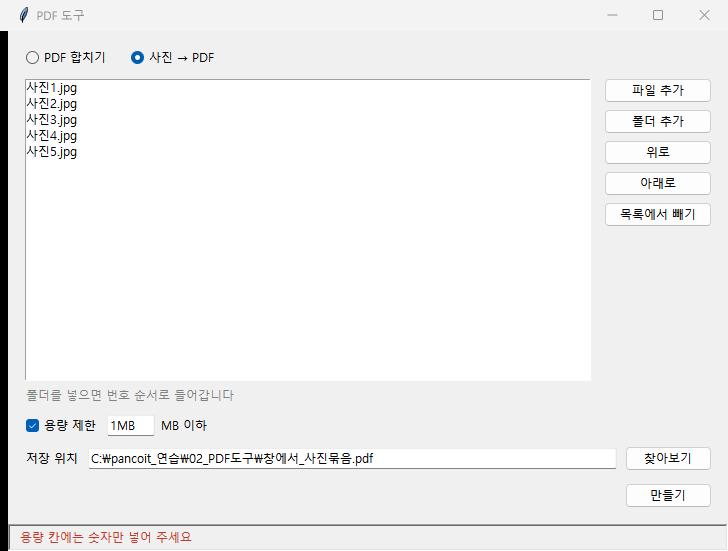
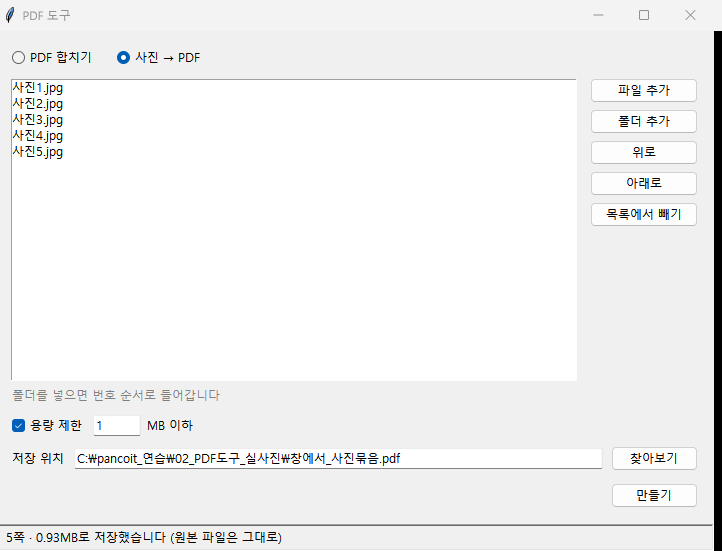
deploy: ALL-MY-PROJECTS-2026/INFO_IT@78a93362fa1e73c0f0667efd194ed27914bec8d7

diff --git a/assets/index-Bz8TyjAO.js b/assets/index-Bz8TyjAO.js
@@ -416,6 +416,8 @@ py -3.12 -m pip --version
 `,s.jsx(e.p,{children:"파일을 넣고 빼고 순서를 바꾸는 버튼이 모두 끝에 이 함수를 부르게 되어 있어서, 한 곳만 고치면 됐습니다. 목록이 비면 만들기 버튼을 끄는 것도 이 함수에서 같이 합니다."}),`
 `,s.jsx(e.p,{children:s.jsx(e.img,{src:"/uploads/pdftool-06-05.png",alt:"고친 뒤 폴더를 넣은 화면. 상태줄에 11개를 넣었다고 나옴"})}),`
 `,s.jsx(e.p,{children:"만들기를 누르니 1초가 안 걸려 상태줄에 '11쪽 · 0.40MB로 저장했습니다 (원본 파일은 그대로)'가 나왔습니다."}),`
+`,s.jsx(e.p,{children:"합친 파일은 스캔 순서 그대로 1쪽부터 11쪽까지 이어집니다. 마지막 쪽이 11쪽입니다."}),`
+`,s.jsx(e.p,{children:s.jsx(e.img,{src:"/uploads/pdftool-06-06.png",alt:"창에서 합친 PDF를 열어 마지막 11쪽을 띄운 화면. 왼쪽에 쪽 목록, 위에 11 / 11"})}),`
 `,s.jsx(e.h2,{id:"사진-묶기와-기다리는-동안의-표시",children:s.jsx(e.a,{href:"#사진-묶기와-기다리는-동안의-표시",children:"사진 묶기와 기다리는 동안의 표시"})}),`
 `,s.jsx(e.p,{children:"사진 → PDF를 고르면 용량 제한 칸이 켜집니다. 2편에서 용량 확인은 사진을 PDF로 묶을 때만 하기로 해서, PDF 합치기에서는 칸이 꺼져 있게 했습니다."}),`
 `,s.jsx(e.p,{children:"사진은 5편에서 쓴 휴대폰 사진 다섯 장(공개 라이선스 CC0)을 그대로 넣었습니다. 1판에서는 1MB로 정해 만들기를 누르면 결과가 나올 때까지 창에 아무 변화가 없었습니다. 눌렸는지 화면으로는 알 수 없었습니다."}),`
@@ -451,13 +453,16 @@ py -3.12 -m pip --version
 `,s.jsxs(e.li,{children:[s.jsx(e.strong,{children:"안내 보여 주기"})," (",s.jsx(e.code,{children:"except"}),"): ",s.jsx(e.code,{children:"pdf_core"}),"가 보낸 안내 문장이나 저장 권한 오류를 받으면 상태줄에 빨간 글자로 보여 주고 멈춥니다. 프로그램이 꺼지지 않습니다."]}),`
 `,s.jsxs(e.li,{children:[s.jsx(e.strong,{children:"커서 되돌리기"})," (",s.jsx(e.code,{children:"finally"}),"): 잘 끝나든 중간에 멈추든 마지막에 커서를 원래대로 돌립니다."]}),`
 `]}),`
-`,s.jsx(e.p,{children:s.jsx(e.img,{src:"/uploads/pdftool-06-06.png",alt:"사진을 묶는 동안 상태줄에 만드는 중입니다가 나온 화면"})}),`
+`,s.jsx(e.p,{children:s.jsx(e.img,{src:"/uploads/pdftool-06-07.png",alt:"사진을 묶는 동안 상태줄에 만드는 중입니다가 나온 화면"})}),`
 `,s.jsx(e.p,{children:"다 끝나자 '5쪽 · 0.93MB로 저장했습니다 (원본 파일은 그대로)'가 나왔습니다. 5편에서 같은 사진을 명령어로 묶은 결과와 같은 0.93MB입니다."}),`
-`,s.jsx(e.p,{children:s.jsx(e.img,{src:"/uploads/pdftool-06-07.png",alt:"사진 5장을 1MB 아래로 묶은 결과"})}),`
+`,s.jsx(e.p,{children:s.jsx(e.img,{src:"/uploads/pdftool-06-08.png",alt:"사진 5장을 1MB 아래로 묶은 결과"})}),`
+`,s.jsx(e.p,{children:"묶인 PDF는 5쪽이고, 세로로 찍은 책 사진도 옆으로 눕지 않고 바로 선 채로 들어갔습니다."}),`
+`,s.jsx(e.p,{children:s.jsx(e.img,{src:"/uploads/pdftool-06-09.png",alt:"창에서 묶은 사진 PDF의 첫 쪽. 세로로 찍은 책 사진이 바로 서 있고 왼쪽에 다섯 쪽 목록"})}),`
+`,s.jsx("p",{className:"muted",children:"사진: Randal Oulton, 위키미디어 공용 CC0"}),`
 `,s.jsx(e.h2,{id:"잘못-넣었을-때의-안내",children:s.jsx(e.a,{href:"#잘못-넣었을-때의-안내",children:"잘못 넣었을 때의 안내"})}),`
 `,s.jsx(e.p,{children:"2편에서 정한 오류 상황 가운데 용량 칸을 잘못 채운 경우와 암호 걸린 PDF를 넣은 경우를 해 봤습니다."}),`
 `,s.jsx(e.p,{children:"용량 칸에 '1MB'처럼 단위까지 적으면 숫자로 바꿀 수 없어서, 만들기를 막고 숫자만 넣으라는 안내를 띄웁니다."}),`
-`,s.jsx(e.p,{children:s.jsx(e.img,{src:"/uploads/pdftool-06-08.png",alt:"용량 칸에 1MB를 넣었을 때 안내"})}),`
+`,s.jsx(e.p,{children:s.jsx(e.img,{src:"/uploads/pdftool-06-10.png",alt:"용량 칸에 1MB를 넣었을 때 안내"})}),`
 `,s.jsx(e.p,{children:"암호 걸린 PDF는 연습용으로 하나 만들어서 시험했습니다. 3편에서 만든 연습2.pdf에 pypdf로 열기 암호를 걸었습니다."}),`
 `,s.jsx(s.Fragment,{children:s.jsx(e.pre,{className:"shiki shiki-themes github-light github-dark",style:{backgroundColor:"#fff","--shiki-dark-bg":"#24292e",color:"#24292e","--shiki-dark":"#e1e4e8"},tabIndex:"0",children:s.jsxs(e.code,{children:[s.jsxs(e.span,{className:"line",children:[s.jsx(e.span,{style:{color:"#D73A49","--shiki-dark":"#F97583"},children:"from"}),s.jsx(e.span,{style:{color:"#24292E","--shiki-dark":"#E1E4E8"},children:" pypdf "}),s.jsx(e.span,{style:{color:"#D73A49","--shiki-dark":"#F97583"},children:"import"}),s.jsx(e.span,{style:{color:"#24292E","--shiki-dark":"#E1E4E8"},children:" PdfReader, PdfWriter"})]}),`
 `,s.jsx(e.span,{className:"line"}),`
@@ -467,7 +472,7 @@ py -3.12 -m pip --version
 `,s.jsxs(e.span,{className:"line",children:[s.jsx(e.span,{style:{color:"#24292E","--shiki-dark":"#E1E4E8"},children:"writer.write("}),s.jsx(e.span,{style:{color:"#032F62","--shiki-dark":"#9ECBFF"},children:'"암호연습.pdf"'}),s.jsx(e.span,{style:{color:"#24292E","--shiki-dark":"#E1E4E8"},children:")"})]}),`
 `,s.jsxs(e.span,{className:"line",children:[s.jsx(e.span,{style:{color:"#005CC5","--shiki-dark":"#79B8FF"},children:"print"}),s.jsx(e.span,{style:{color:"#24292E","--shiki-dark":"#E1E4E8"},children:"("}),s.jsx(e.span,{style:{color:"#032F62","--shiki-dark":"#9ECBFF"},children:'"암호연습.pdf 만들었음"'}),s.jsx(e.span,{style:{color:"#24292E","--shiki-dark":"#E1E4E8"},children:")"})]})]})})}),`
 `,s.jsx(e.p,{children:"연습1, 암호연습, 연습2 순서로 넣고 만들기를 누르니 상태줄에 어느 파일이 문제인지 이름이 나왔고, 결과 파일은 생기지 않았습니다."}),`
-`,s.jsx(e.p,{children:s.jsx(e.img,{src:"/uploads/pdftool-06-09.png",alt:"암호 걸린 파일을 섞었을 때 안내"})}),`
+`,s.jsx(e.p,{children:s.jsx(e.img,{src:"/uploads/pdftool-06-11.png",alt:"암호 걸린 파일을 섞었을 때 안내"})}),`
 `,s.jsx(e.p,{children:"같은 이름의 결과 파일이 이미 있으면 덮어쓸지 묻는 창과 위로·아래로·빼기 버튼은 코드에만 넣어 두었습니다."}),`
 `,s.jsx(e.p,{children:"다음 편에서는 이 창을 더블클릭으로 켜는 방법을 만들고, 2편에서 정한 시험 11가지를 처음부터 해 보겠습니다."}),`
 `,s.jsx(e.p,{children:"제가 쓴 환경은 Windows 11, Python 3.14.9, tkinter 9.0, pypdf 6.21.4, Pillow 13.0.0입니다."})]})}function Pe(r={}){const{wrapper:e}={...f(),...r.components};return e?s.jsx(e,{...r,children:s.jsx(ns,{...r})}):ns(r)}const ve=Object.freeze(Object.defineProperty({__proto__:null,default:Pe,frontmatter:Ae},Symbol.toStringTag,{value:"Module"})),we=Object.assign({"../content/posts/python-pdf-tool-01-requirements.mdx":Ee,"../content/posts/python-pdf-tool-02-design.mdx":me,"../content/posts/python-pdf-tool-03-install-merge.mdx":ge,"../content/posts/python-pdf-tool-04-folder-merge.mdx":Ne,"../content/posts/python-pdf-tool-05-photo-size.mdx":Be,"../content/posts/python-pdf-tool-06-window.mdx":ve}),Y=Object.entries(we).map(([r,e])=>({slug:r.split("/").pop().replace(/\.mdx$/,""),Component:e.default,...e.frontmatter})).sort((r,e)=>{const l=+!!r.draft-+!!e.draft;return l!==0?l:r.date<e.date?1:-1}),Me=new Set(m.categories.filter(r=>r.hidden).map(r=>r.label));function w(r){return!!r&&Me.has(r)}const S=Y.filter(r=>!w(r.category)),Ns=Y.filter(r=>!r.draft),M=Ns.filter(r=>!w(r.category));function Te(r){return Y.find(e=>e.slug===r)}function ds(r){return Ns.filter(e=>e.category===r)}function cs(r){return M.filter(e=>e.category===r).length}const $e=new Set(["생활IT","이유","방법","정리","확인","하는","있는","없는","것","때","수"]);function as(r){const e=`${r.title} ${r.description??""} ${(r.tags??[]).join(" ")}`;return new Set((e.match(/[가-힣A-Za-z0-9]{2,}/g)??[]).map(l=>l.toLowerCase().replace(/(은|는|이|가|을|를|의|에|도|로|으로|과|와|만)$/,"")).filter(l=>l.length>=2&&!$e.has(l)))}const Ie=864e5,Se=(r,e)=>Math.abs(new Date(r.date).getTime()-new Date(e.date).getTime())/Ie;function Re(r,e=6){const l=as(r),i=r.tags??[];return M.filter(n=>n.slug!==r.slug).map(n=>{let c=0;n.category&&n.category===r.category&&(c+=1),c+=(n.tags??[]).filter(d=>i.includes(d)).length*3;for(const d of as(n))l.has(d)&&(c+=2);return{p:n,score:c,gap:Se(n,r)}}).sort((n,c)=>c.score-n.score||n.gap-c.gap).slice(0,e).map(n=>n.p)}function Le(r){const e=M.filter(i=>i.category===r.category),l=e.findIndex(i=>i.slug===r.slug);return l<0?{}:{next:e[l-1],prev:e[l+1]}}function Oe(){const[r,e]=h.useState(null);return h.useEffect(()=>{let l=!0;return fetch("/stats.json",{cache:"no-store"}).then(i=>i.ok?i.json():null).then(i=>{l&&i&&(typeof i.daily=="number"||typeof i.total=="number")&&e({daily:i.daily??null,total:i.total??null})}).catch(()=>{}),()=>{l=!1}},[]),r}const ze=!1;function K(){const{pathname:r}=V(),e=decodeURIComponent(r).replace(/(.)\/$/,"$1"),l=e==="/posts"||e==="/";Oe();const i=m.categories.filter(d=>!w(d.label)&&cs(d.label)>0),n=[];for(const d of i){if(!d.group){n.push({type:"item",cat:d});continue}let a=n.find(p=>p.type==="group"&&p.name===d.group);a||(a={type:"group",name:d.group,items:[]},n.push(a)),a.items.push(d)}const c=d=>{const a=e===`/category/${d.label}`;return s.jsxs(g,{to:`/category/${encodeURIComponent(d.label)}`,className:`cat-nav__item ${a?"active":""}`,title:d.desc,children:[s.jsx("span",{children:d.label}),s.jsx("span",{className:"count",children:cs(d.label)})]},d.label)};return s.jsx("aside",{className:"sidebar",children:s.jsxs("nav",{className:"cat-nav","aria-label":"카테고리",children:[ze,s.jsx("div",{className:"sidebar__title",children:"카테고리"}),s.jsxs(g,{to:"/posts",className:`cat-nav__item ${l?"active":""}`,children:[s.jsx("span",{children:"전체 글"}),s.jsx("span",{className:"count",children:M.length})]}),n.length>0&&s.jsx("div",{className:"cat-divider",role:"separator","aria-hidden":"true"}),n.map(d=>d.type==="item"?c(d.cat):s.jsxs("div",{className:"cat-group",children:[s.jsx("div",{className:"cat-group__title",children:d.name}),d.items.map(c)]},`group-${d.name}`))]})})}function T(r){const e=new Date(r);if(Number.isNaN(e.getTime()))return r;const l=`${e.getFullYear()}년 ${e.getMonth()+1}월 ${e.getDate()}일`;if(!/[T ]\d{2}:\d{2}/.test(r))return l;const i=String(e.getHours()).padStart(2,"0"),n=String(e.getMinutes()).padStart(2,"0");return`${l} ${i}:${n}`}function qe(r){const e=r.replace(/\s/g,"").length;return Math.max(1,Math.round(e/500))}function Z({post:r}){return s.jsxs(g,{to:`/posts/${r.slug}`,className:`post-row ${r.draft?"post-row--draft":""}`,children:[s.jsxs("div",{className:"post-row__meta",children:[r.category&&s.jsx("span",{className:"post-row__cat",children:r.category}),s.jsx("time",{dateTime:r.date,children:T(r.date)}),r.draft&&s.jsx("span",{className:"post-row__badge",children:"작성 예정"})]}),s.jsx("h3",{className:"post-row__title",children:r.title}),s.jsx("p",{className:"post-row__excerpt",children:r.description})]})}function J({slot:r,format:e="auto"}){const l=V();return s.jsx(Ge,{slot:r,format:e},l.pathname+(r??""))}function Ge({slot:r,format:e}){return h.useRef(null),h.useEffect(()=>{},[]),null}function We(){const[r,...e]=M;return s.jsxs(s.Fragment,{children:[s.jsx($,{path:"/"}),s.jsxs("div",{className:"blog",children:[s.jsx(K,{}),s.jsxs("div",{className:"blog__main",children:[s.jsxs("header",{className:"feed-head",children:[s.jsx("p",{className:"feed-head__eyebrow",children:"프로그램 제작 기록"}),s.jsx("h1",{children:m.title}),s.jsx("p",{className:"feed-head__desc",children:m.description})]}),M.length===0?s.jsx("p",{className:"muted",style:{paddingTop:"2rem"},children:"첫 글을 준비하고 있습니다. PDF를 다루는 도구부터 시작합니다."}):s.jsxs(s.Fragment,{children:[r&&s.jsxs(g,{to:`/posts/${r.slug}`,className:"feature",children:[s.jsx("span",{className:"feature__label",children:"추천"}),s.jsx("h2",{className:"feature__title",children:r.title}),s.jsx("p",{className:"feature__excerpt",children:r.description}),s.jsxs("div",{className:"post-row__meta",children:[r.category&&s.jsx("span",{className:"post-row__cat",children:r.category}),s.jsx("time",{dateTime:r.date,children:T(r.date)})]})]}),s.jsxs("div",{className:"feed-bar",children:[s.jsx("h2",{children:"최신 글"}),s.jsx(g,{to:"/posts",className:"feed-bar__all",children:"전체 글 →"})]}),e.length>0&&s.jsx("div",{className:"post-list",children:e.map(l=>s.jsx(Z,{post:l},l.slug))})]}),s.jsx(J,{slot:"home-bottom"})]})]})]})}const Ue="/".replace(/\/$/,"");function _s({post:r}){const e=r.cover&&r.cover.startsWith("/")?Ue+r.cover:r.cover;return s.jsxs(g,{to:`/posts/${r.slug}`,className:`post-tile${r.draft?" post-tile--draft":""}`,children:[s.jsx("div",{className:"post-tile__thumb",children:e?s.jsx("img",{src:e,alt:"",loading:"lazy",decoding:"async"}):s.jsx("span",{className:"post-tile__thumb-empty","aria-hidden":"true",children:r.category??"IT"})}),s.jsxs("div",{className:"post-tile__body",children:[s.jsxs("div",{className:"post-row__meta",children:[r.category&&s.jsx("span",{className:"post-row__cat",children:r.category}),r.draft&&s.jsx("span",{className:"post-row__badge",children:"작성 예정"})]}),s.jsx("h3",{className:"post-tile__title",children:r.title}),s.jsx("p",{className:"post-tile__excerpt",children:r.description}),s.jsx("time",{className:"post-tile__date",dateTime:r.date,children:T(r.date)})]})]})}function bs({mode:r,onChange:e}){return s.jsxs("div",{className:"view-toggle",role:"group","aria-label":"보기 모드",children:[s.jsx("button",{type:"button",className:`view-toggle__btn${r==="list"?" is-active":""}`,onClick:()=>e("list"),"aria-pressed":r==="list","aria-label":"리스트형",title:"리스트형",children:s.jsx("svg",{viewBox:"0 0 24 24","aria-hidden":"true",children:s.jsx("path",{d:"M4 6h16M4 12h16M4 18h16"})})}),s.jsx("button",{type:"button",className:`view-toggle__btn${r==="card"?" is-active":""}`,onClick:()=>e("card"),"aria-pressed":r==="card","aria-label":"카드형",title:"카드형",children:s.jsxs("svg",{viewBox:"0 0 24 24","aria-hidden":"true",children:[s.jsx("rect",{x:"3",y:"3",width:"8",height:"8",rx:"1.5"}),s.jsx("rect",{x:"13",y:"3",width:"8",height:"8",rx:"1.5"}),s.jsx("rect",{x:"3",y:"13",width:"8",height:"8",rx:"1.5"}),s.jsx("rect",{x:"13",y:"13",width:"8",height:"8",rx:"1.5"})]})})]})}const q=5;function Bs({page:r,pageCount:e,onChange:l,align:i="center"}){if(e<=1)return null;const n=o=>{const y=Math.min(Math.max(1,o),e);y!==r&&(l(y),typeof window<"u"&&window.scrollTo({top:0,behavior:"smooth"}))},d=Math.floor((r-1)/q)*q+1,a=Math.min(d+q-1,e),p=[];for(let o=d;o<=a;o++)p.push(o);const x=d>1,t=a<e;return s.jsxs("nav",{className:`pager${i==="right"?" pager--right":""}`,"aria-label":"페이지 이동",children:[x&&s.jsx("button",{type:"button",className:"pager__btn pager__nav",onClick:()=>n(d-1),"aria-label":"이전 페이지 묶음",children:s.jsx("svg",{viewBox:"0 0 24 24","aria-hidden":"true",children:s.jsx("path",{d:"M15 18l-6-6 6-6"})})}),s.jsx("ol",{className:"pager__list",children:p.map(o=>s.jsx("li",{children:s.jsx("button",{type:"button",className:`pager__btn pager__num${o===r?" is-active":""}`,onClick:()=>n(o),"aria-label":`${o}페이지`,"aria-current":o===r?"page":void 0,children:o})},o))}),t&&s.jsx("button",{type:"button",className:"pager__btn pager__nav",onClick:()=>n(a+1),"aria-label":"다음 페이지 묶음",children:s.jsx("svg",{viewBox:"0 0 24 24","aria-hidden":"true",children:s.jsx("path",{d:"M9 18l6-6-6-6"})})})]})}function As({posts:r,title:e="월별 글 목록"}){const l=r.filter(c=>!c.draft);if(l.length===0)return null;const i=new Map;for(const c of l){const d=c.date.slice(0,7);i.has(d)||i.set(d,[]),i.get(d).push(c)}const n=[...i.keys()].sort().reverse();return s.jsxs("section",{className:"post-archive","aria-labelledby":"post-archive-title",children:[s.jsx("h2",{id:"post-archive-title",className:"post-archive__title",children:e}),n.map(c=>{const[d,a]=c.split("-"),p=i.get(c).sort((x,t)=>x.date<t.date?1:-1);return s.jsxs("div",{className:"post-archive__month",children:[s.jsxs("h3",{className:"post-archive__ym",children:[d,"년 ",Number(a),"월 ",s.jsxs("span",{className:"muted",children:["· ",p.length,"편"]})]}),s.jsx("ul",{className:"post-archive__list",children:p.map(x=>s.jsxs("li",{children:[s.jsx("time",{dateTime:x.date,children:x.date.slice(5,10).replace("-",".")}),s.jsx(g,{to:`/posts/${x.slug}`,children:x.title})]},x.slug))})]},c)})]})}const ts="postView";function Ps(){const[r,e]=h.useState("list");return h.useEffect(()=>{try{const i=localStorage.getItem(ts);(i==="card"||i==="list")&&e(i)}catch{}},[]),[r,i=>{e(i);try{localStorage.setItem(ts,i)}catch{}}]}const G=5;function Xe(){const[r,e]=Es(),l=r.get("q")??"",i=r.get("cat")??"",n=r.get("sort")||"new",[c,d]=Ps(),a=(k,C,F,E={})=>{e(u=>{const _=new URLSearchParams(u);return C&&C!==F?_.set(k,C):_.delete(k),_.delete("page"),_},{replace:E.replace??!1})},p=k=>{e(C=>{const F=new URLSearchParams(C);return k>1?F.set("page",String(k)):F.delete("page"),F})},x=h.useMemo(()=>{const k=new Set;return S.forEach(C=>C.category&&k.add(C.category)),[...k]},[]),t=h.useMemo(()=>{const k=l.trim().toLowerCase();return[...S.filter(F=>i&&F.category!==i?!1:k?F.title.toLowerCase().includes(k)||F.description.toLowerCase().includes(k)||(F.tags??[]).some(E=>E.toLowerCase().includes(k))||(F.category??"").toLowerCase().includes(k):!0)].sort((F,E)=>{if(n==="cat"){const u=(F.category??"").localeCompare(E.category??"","ko");return u!==0?u:F.date<E.date?1:-1}return n==="old"?F.date<E.date?-1:F.date>E.date?1:0:F.date<E.date?1:F.date>E.date?-1:0})},[l,i,n]),o=Math.max(1,Math.ceil(t.length/G)),y=parseInt(r.get("page")??"1",10),D=Math.min(Math.max(1,Number.isFinite(y)?y:1),o),P=t.slice((D-1)*G,D*G);return s.jsxs(s.Fragment,{children:[s.jsx($,{title:"전체 글",path:"/posts",description:"PANCO_IT의 모든 글 목록"}),s.jsxs("div",{className:"blog",children:[s.jsx(K,{}),s.jsxs("div",{className:"blog__main",children:[s.jsxs("div",{className:"posts-head-row",children:[s.jsxs("header",{className:"feed-head",children:[s.jsx("p",{className:"feed-head__eyebrow",children:"모든 글을 한곳에"}),s.jsx("h1",{children:"전체 글"}),s.jsxs("p",{className:"feed-head__desc",children:["총 ",S.length,"개의 글이 있습니다."]})]}),s.jsxs("div",{className:"post-filter",children:[s.jsxs("div",{className:"fbox fbox--search",children:[s.jsxs("svg",{className:"fbox__icon",viewBox:"0 0 24 24","aria-hidden":"true",children:[s.jsx("circle",{cx:"11",cy:"11",r:"7"}),s.jsx("path",{d:"M21 21l-4.3-4.3"})]}),s.jsx("input",{type:"search",className:"fbox__input",value:l,onChange:k=>a("q",k.target.value,"",{replace:!0}),placeholder:"검색","aria-label":"글 검색"})]}),s.jsxs("div",{className:"fbox",children:[s.jsx("svg",{className:"fbox__icon",viewBox:"0 0 24 24","aria-hidden":"true",children:s.jsx("path",{d:"M3 5h18l-7 8v6l-4 2v-8z"})}),s.jsxs("select",{className:"fbox__select",value:i,onChange:k=>a("cat",k.target.value,""),"aria-label":"카테고리 필터",children:[s.jsx("option",{value:"",children:"전체 카테고리"}),x.map(k=>s.jsx("option",{value:k,children:k},k))]})]}),s.jsxs("div",{className:"fbox",children:[s.jsx("svg",{className:"fbox__icon",viewBox:"0 0 24 24","aria-hidden":"true",children:s.jsx("path",{d:"M4 6h16M6 12h12M9 18h6"})}),s.jsxs("select",{className:"fbox__select",value:n,onChange:k=>a("sort",k.target.value,"new"),"aria-label":"정렬",children:[s.jsx("option",{value:"new",children:"최신순"}),s.jsx("option",{value:"old",children:"오래된순"}),s.jsx("option",{value:"cat",children:"카테고리순"})]})]}),s.jsx(bs,{mode:c,onChange:d})]})]}),s.jsxs("p",{className:"post-filter__count muted",children:[t.length,"개"]}),t.length===0?s.jsx("p",{className:"muted",children:"조건에 맞는 글이 없습니다."}):s.jsxs(s.Fragment,{children:[s.jsx(Bs,{page:D,pageCount:o,onChange:p,align:"right"}),c==="card"?s.jsx("div",{className:"post-grid",children:P.map(k=>s.jsx(_s,{post:k},k.slug))}):s.jsx("div",{className:"post-list",children:P.map(k=>s.jsx(Z,{post:k},k.slug))})]}),s.jsx(As,{posts:M})]})]})]})}function vs({items:r}){return r.length<2?null:s.jsx("nav",{className:"breadcrumbs","aria-label":"현재 위치",children:s.jsx("ol",{children:r.map((e,l)=>{const i=l===r.length-1;return s.jsx("li",{children:i?s.jsx("span",{"aria-current":"page",children:e.name}):s.jsx(g,{to:e.path,children:e.name})},e.path+l)})})})}function He(){const[r,e]=h.useState(0);return h.useEffect(()=>{let l=0;const i=()=>{const c=document.documentElement,d=c.scrollHeight-c.clientHeight,a=d>0?c.scrollTop/d*100:0;e(a),l=0},n=()=>{l||(l=requestAnimationFrame(i))};return window.addEventListener("scroll",n,{passive:!0}),i(),()=>{window.removeEventListener("scroll",n),l&&cancelAnimationFrame(l)}},[]),s.jsx("div",{className:"reading-progress",style:{width:`${r}%`},"aria-hidden":"true"})}const Je=80;function Ve({containerId:r}){const[e,l]=h.useState([]),[i,n]=h.useState("");h.useEffect(()=>{const d=document.getElementById(r);if(!d)return;const a=Array.from(d.querySelectorAll("h2, h3")),p=a.filter(t=>t.id).map(t=>({id:t.id,text:t.textContent??"",level:Number(t.tagName.substring(1))}));l(p);const x=new IntersectionObserver(t=>{for(const o of t)o.isIntersecting&&n(o.target.id)},{rootMargin:"-80px 0px -70% 0px",threshold:0});return a.forEach(t=>t.id&&x.observe(t)),()=>x.disconnect()},[r]);const c=(d,a)=>{const p=document.getElementById(a);if(!p)return;d.preventDefault();const x=window.matchMedia("(prefers-reduced-motion: reduce)").matches,t=p.getBoundingClientRect().top+window.scrollY-Je;window.scrollTo({top:t,left:0,behavior:x?"auto":"smooth"}),history.replaceState(null,"",`${location.pathname}${location.search}#${encodeURIComponent(a)}`),n(a)};return e.length<2?null:s.jsxs("nav",{className:"toc","aria-label":"목차",children:[s.jsx("div",{className:"toc__title",children:"목차"}),e.map(d=>s.jsx("a",{href:`#${d.id}`,onClick:a=>c(a,d.id),className:`${d.level===3?"lvl-3":""} ${i===d.id?"active":""}`,children:d.text},d.id))]})}function Ye({post:r,featured:e=!1}){return s.jsxs(g,{to:`/posts/${r.slug}`,className:`post-card ${e?"post-card--featured":""}`,children:[r.category&&s.jsx("span",{className:"tag",style:{alignSelf:"flex-start"},children:r.category}),s.jsx("h3",{style:{marginTop:r.category?"0.75rem":0},children:r.title}),s.jsx("p",{children:r.description}),s.jsxs("div",{className:"post-card__meta",children:[s.jsx("time",{dateTime:r.date,children:T(r.date)}),r.tags&&r.tags.length>0&&s.jsxs("span",{children:["· ",r.tags.slice(0,3).join(", ")]})]})]})}function Ke({questions:r}){const[e,l]=h.useState(!1),[i,n]=h.useState(0),[c,d]=h.useState(0),[a,p]=h.useState(null),[x,t]=h.useState(!1);if(!r||r.length===0)return null;const o=r.length;if(!e){const E=r.filter(j=>j.type==="ox").length,u=o-E,_=[E?`OX ${E}문제`:"",u?`4지선다 ${u}문제`:""].filter(Boolean);return s.jsx("div",{className:"quiz",children:s.jsxs("div",{className:"quiz__start",children:[s.jsxs("p",{className:"quiz__h",children:["문제 ",o,"개"]}),s.jsx("p",{className:"quiz__meta",children:_.join(" + ")}),s.jsx("button",{className:"quiz__btn",onClick:()=>l(!0),children:"시작하기"})]})})}if(x){const E=c===o?"완벽합니다. 핵심을 정확히 잡으셨습니다.":c>=Math.ceil(o/2)?"좋습니다. 틀린 부분만 다시 보면 됩니다.":"괜찮습니다. 위 내용을 한 번 더 읽고 다시 도전해 보십시오.";return s.jsx("div",{className:"quiz",children:s.jsxs("div",{className:"quiz__result",children:[s.jsxs("h3",{className:"quiz__h",children:[o,"문제 중 ",s.jsxs("span",{className:"quiz__score",children:[c,"개"]})," 정답"]}),s.jsx("p",{className:"quiz__meta",children:E}),s.jsx("button",{className:"quiz__btn",onClick:()=>{l(!1),n(0),d(0),p(null),t(!1)},children:"다시 풀기"})]})})}const y=r[i],D=a!==null;function P(E){D||(p(E),E===y.answer&&d(u=>u+1))}function k(){i<o-1?(n(i+1),p(null)):t(!0)}const C=a===y.answer,F=[["O",!0],["X",!1]];return s.jsxs("div",{className:"quiz",children:[s.jsxs("div",{className:"quiz__nav",children:[s.jsxs("span",{className:"quiz__count",children:[i+1," / ",o]}),s.jsx("span",{className:"quiz__kind",children:y.type==="ox"?"OX":"4지선다"})]}),s.jsx("p",{className:"quiz__q",children:y.q}),y.code&&s.jsx("pre",{className:"quiz__code",children:s.jsx("code",{children:y.code})}),y.type==="ox"?s.jsx("div",{className:"quiz__ox",children:F.map(([E,u])=>{const _=D?u===y.answer?"is-correct":a===u?"is-wrong":"":"";return s.jsx("button",{className:`quiz__opt quiz__opt--ox ${_}`,disabled:D,onClick:()=>P(u),children:E},E)})}):s.jsx("div",{className:"quiz__opts",children:(y.options??[]).map((E,u)=>{const _=D?u===y.answer?"is-correct":a===u?"is-wrong":"":"";return s.jsxs("button",{className:`quiz__opt ${_}`,disabled:D,onClick:()=>P(u),children:[u+1,". ",E]},u)})}),D&&s.jsxs("div",{className:"quiz__explain",children:[s.jsx("strong",{className:C?"ok":"no",children:C?"정답":"오답"})," ",y.explain]}),D&&s.jsx("button",{className:"quiz__btn",onClick:k,children:i<o-1?"다음":"결과 보기"})]})}const Ze="https://onecompiler.com/embed/java?theme=dark&hideNew=true&hideNewFileOption=true&hideStdin=true&hideLanguageSelection=true&hideTitle=true&listenToEvents=true";function Qe(){return s.jsx("svg",{width:"14",height:"14",viewBox:"0 0 24 24",fill:"none",stroke:"currentColor",strokeWidth:"2",strokeLinecap:"round",strokeLinejoin:"round","aria-hidden":"true",children:s.jsx("path",{d:"M8 3H5a2 2 0 0 0-2 2v3M16 3h3a2 2 0 0 1 2 2v3M8 21H5a2 2 0 0 1-2-2v-3M16 21h3a2 2 0 0 0 2-2v-3"})})}function sr({code:r,label:e}){const[l,i]=h.useState(!1),[n,c]=h.useState(!1),d=h.useRef(null);function a(){var t;const x=(t=d.current)==null?void 0:t.contentWindow;x&&x.postMessage({eventType:"populateCode",language:"java",files:[{name:"Main.java",content:r}]},"*")}h.useEffect(()=>{if(!l)return;const x=[200,700,1500,2500].map(t=>window.setTimeout(a,t));return()=>x.forEach(clearTimeout)},[l]),h.useEffect(()=>{if(typeof document>"u"||(document.body.style.overflow=n?"hidden":"",!n))return;const x=t=>{t.key==="Escape"&&c(!1)};return window.addEventListener("keydown",x),()=>{document.body.style.overflow="",window.removeEventListener("keydown",x)}},[n]);function p(){i(!0),c(!0)}return s.jsxs(s.Fragment,{children:[n&&s.jsx("div",{className:"runner__backdrop",onClick:()=>c(!1)}),s.jsxs("div",{className:`runner${n?" runner--expanded":""}`,children:[s.jsxs("div",{className:"runner__bar",children:[s.jsx("span",{className:"runner__label",children:e??"코드 실행"}),n&&s.jsxs("span",{className:"runner__actions",children:[s.jsx("button",{className:"runner__act",onClick:a,type:"button",children:"코드 다시 넣기"}),s.jsx("button",{className:"runner__act",onClick:()=>c(!1),type:"button",children:"✕ 닫기"})]})]}),s.jsx("pre",{className:"runner__code",children:s.jsx("code",{children:r})}),s.jsx("button",{className:"runner__run",onClick:p,type:"button",children:l?s.jsxs(s.Fragment,{children:[s.jsx(Qe,{})," 실행창 다시 열기"]}):"▶ 컴파일러에서 직접 풀어 보기"}),l&&s.jsx("iframe",{ref:d,className:"runner__frame",src:Ze,title:"자바 온라인 실행창",onLoad:a,loading:"lazy"}),s.jsxs("p",{className:"runner__note",children:["📱 코드 실행(실습)은 ",s.jsx("b",{children:"태블릿·PC"}),"에서 이용할 수 있어요. 모바일에서는 위 코드를 눈으로 따라가며 확인하세요."]})]})]})}const er=r=>`https://onecompiler.com/embed/python?theme=dark&hideNew=true&hideNewFileOption=true&hideStdin=${r?"false":"true"}&hideLanguageSelection=true&hideTitle=true&listenToEvents=true`;function rr(){return s.jsx("svg",{width:"14",height:"14",viewBox:"0 0 24 24",fill:"none",stroke:"currentColor",strokeWidth:"2",strokeLinecap:"round",strokeLinejoin:"round","aria-hidden":"true",children:s.jsx("path",{d:"M8 3H5a2 2 0 0 0-2 2v3M16 3h3a2 2 0 0 1 2 2v3M8 21H5a2 2 0 0 1-2-2v-3M16 21h3a2 2 0 0 0 2-2v-3"})})}function lr({code:r,label:e,stdin:l}){const[i,n]=h.useState(!1),[c,d]=h.useState(!1),a=h.useRef(null);function p(){var o;const t=(o=a.current)==null?void 0:o.contentWindow;t&&t.postMessage({eventType:"populateCode",language:"python",files:[{name:"main.py",content:r}],...l!==void 0?{stdin:l}:{}},"*")}h.useEffect(()=>{if(!i)return;const t=[200,700,1500,2500].map(o=>window.setTimeout(p,o));return()=>t.forEach(clearTimeout)},[i]),h.useEffect(()=>{if(typeof document>"u"||(document.body.style.overflow=c?"hidden":"",!c))return;const t=o=>{o.key==="Escape"&&d(!1)};return window.addEventListener("keydown",t),()=>{document.body.style.overflow="",window.removeEventListener("keydown",t)}},[c]);function x(){n(!0),d(!0)}return s.jsxs(s.Fragment,{children:[c&&s.jsx("div",{className:"runner__backdrop",onClick:()=>d(!1)}),s.jsxs("div",{className:`runner${c?" runner--expanded":""}`,children:[s.jsxs("div",{className:"runner__bar",children:[s.jsx("span",{className:"runner__label",children:e??"코드 실행"}),c&&s.jsxs("span",{className:"runner__actions",children:[s.jsx("button",{className:"runner__act",onClick:p,type:"button",children:"코드 다시 넣기"}),s.jsx("button",{className:"runner__act",onClick:()=>d(!1),type:"button",children:"✕ 닫기"})]})]}),s.jsx("pre",{className:"runner__code",children:s.jsx("code",{children:r})}),l!==void 0&&s.jsxs("p",{className:"runner__note",children:["이 예제는 키보드 입력을 씁니다. 실행창 아래 ",s.jsx("b",{children:"STDIN"})," 칸에 미리 넣어 둔 값(",s.jsx("code",{children:l.replace(/\n/g," ⏎ ")}),")을 바꿔 가며 실행해 보세요."]}),s.jsx("button",{className:"runner__run",onClick:x,type:"button",children:i?s.jsxs(s.Fragment,{children:[s.jsx(rr,{})," 실행창 다시 열기"]}):"▶ 컴파일러에서 직접 풀어 보기"}),i&&s.jsx("iframe",{ref:a,className:"runner__frame",src:er(l!==void 0),title:"파이썬 온라인 실행창",onLoad:p,loading:"lazy"}),s.jsxs("p",{className:"runner__note",children:["📱 코드 실행(실습)은 ",s.jsx("b",{children:"태블릿·PC"}),"에서 이용할 수 있어요. 모바일에서는 위 코드를 눈으로 따라가며 확인하세요."]})]})]})}const ir="/".replace(/\/$/,"");function ws(r){return r&&r.startsWith("/")&&!r.startsWith("//")?ir+r:r}function nr({src:r,style:e,...l}){const i=ws(r);if(r&&/img\.shields\.io/.test(r))return s.jsx("img",{...l,src:i,loading:"lazy",style:{display:"inline-block",verticalAlign:"middle",height:28,width:"auto",margin:"3px 5px 3px 0",...e}});const n=!!r&&/-hero\./.test(r);return s.jsx("img",{...l,src:i,style:e,loading:n?"eager":"lazy",...n?{fetchPriority:"high"}:{}})}function dr({href:r,children:e,...l}){const i=ws(r),n=!!i&&/^https?:/i.test(i);return s.jsx("a",{...l,href:i,...n?{target:"_blank",rel:"noopener noreferrer"}:{},children:e})}const Ms={img:nr,a:dr,Quiz:Ke,JavaRunner:sr,PythonRunner:lr};function Ts(){return s.jsxs("div",{className:"notfound",children:[s.jsx($,{title:"페이지를 찾을 수 없음",path:"/404",noindex:!0}),s.jsx("h1",{children:"404"}),s.jsx("p",{className:"muted",style:{marginTop:"0.5rem"},children:"요청하신 페이지를 찾을 수 없습니다."}),s.jsxs("div",{style:{marginTop:"2rem",display:"flex",gap:"0.75rem",justifyContent:"center"},children:[s.jsx(g,{to:"/",className:"btn",children:"홈으로"}),s.jsx(g,{to:"/posts",className:"btn btn--ghost",children:"전체 글"})]})]})}const os="article-body";function cr(){const{slug:r}=ys(),e=r?Te(r):void 0,l=h.useRef(null),[i,n]=h.useState(null);if(h.useEffect(()=>{l.current&&n(qe(l.current.textContent??""))},[r]),!e)return s.jsx(Ts,{});const c=Re(e),{prev:d,next:a}=w(e.category)?{}:Le(e),{Component:p}=e,x=[{name:"홈",path:"/"},...e.category?[{name:e.category,path:`/category/${encodeURIComponent(e.category)}`}]:[],{name:e.title,path:`/posts/${e.slug}`}];return s.jsxs(s.Fragment,{children:[s.jsx($,{title:e.title,description:e.description,path:`/posts/${e.slug}`,type:"article",article:!0,publishedTime:e.date,modifiedTime:e.updated??e.date,tags:e.tags,image:e.cover,noindex:e.draft||w(e.category),breadcrumbs:x}),s.jsx(He,{}),s.jsxs("div",{className:"post-layout",children:[s.jsxs("article",{children:[!1,s.jsx(vs,{items:x}),s.jsxs("header",{className:"post-header",children:[e.category&&s.jsx(g,{to:`/category/${encodeURIComponent(e.category)}`,className:"tag",children:e.category}),s.jsx("h1",{style:{marginTop:"0.75rem"},children:e.title}),s.jsxs("div",{className:"post-header__meta",children:[s.jsx("span",{children:m.author.name}),s.jsx("time",{dateTime:e.date,children:T(e.date)}),e.updated&&e.updated.slice(0,10)!==e.date.slice(0,10)&&s.jsxs("span",{children:["· 업데이트 ",s.jsx("time",{dateTime:e.updated,children:T(e.updated)})]}),i&&s.jsxs("span",{children:["· 약 ",i,"분 읽기"]})]}),e.tags&&e.tags.length>0&&s.jsx("div",{className:"tag-row",style:{marginTop:"1rem"},children:e.tags.map(t=>s.jsxs("span",{className:"tag",children:["#",t]},t))})]}),s.jsx(J,{slot:"post-top"}),s.jsx("div",{id:os,ref:l,className:"prose",style:{marginTop:"2rem"},children:s.jsx(Ds,{components:Ms,children:s.jsx(p,{})})}),s.jsxs("div",{style:{marginTop:"3rem",padding:"1.4rem",borderRadius:"var(--radius)",border:"1px solid var(--border)",background:"var(--surface)"},children:[s.jsx("strong",{children:m.author.name}),s.jsx("p",{className:"muted",style:{marginTop:"0.35rem"},children:m.author.bio})]}),(d||a)&&s.jsxs("nav",{className:"post-nav","aria-label":"이전 글 다음 글",children:[d?s.jsxs(g,{to:`/posts/${d.slug}`,className:"post-nav__item",children:[s.jsx("span",{className:"post-nav__label",children:"이전 글"}),s.jsx("span",{className:"post-nav__title",children:d.title})]}):s.jsx("span",{}),a?s.jsxs(g,{to:`/posts/${a.slug}`,className:"post-nav__item post-nav__item--next",children:[s.jsx("span",{className:"post-nav__label",children:"다음 글"}),s.jsx("span",{className:"post-nav__title",children:a.title})]}):s.jsx("span",{})]}),s.jsx(J,{slot:"post-bottom"})]}),s.jsx(Ve,{containerId:os},e.slug)]}),c.length>0&&s.jsxs("section",{children:[s.jsx("div",{className:"section-title",children:s.jsx("h2",{children:"관련 글"})}),s.jsx("div",{className:"bento",children:c.map(t=>s.jsx(Ye,{post:t},t.slug))})]})]})}const W=5;function ar(){const{name:r}=ys(),e=r?decodeURIComponent(r):"",l=m.categories.find(j=>j.label===e),[i,n]=Es(),c=zs(),d=i.get("q")??"",a=i.get("sort")||"new",[p,x]=Ps(),t=h.useMemo(()=>{const j=new Set;return S.forEach(B=>B.category&&j.add(B.category)),[...j]},[]),o=ds(e),y=h.useMemo(()=>{const j=d.trim().toLowerCase();return[...o.filter(N=>j?N.title.toLowerCase().includes(j)||N.description.toLowerCase().includes(j)||(N.tags??[]).some(A=>A.toLowerCase().includes(j)):!0)].sort((N,A)=>a==="old"?N.date<A.date?-1:N.date>A.date?1:0:N.date<A.date?1:N.date>A.date?-1:0)},[o,d,a]),D=(j,B,N,A={})=>{n(Is=>{const I=new URLSearchParams(Is);return B&&B!==N?I.set(j,B):I.delete(j),I.delete("page"),I},{replace:A.replace??!1})},P=j=>{n(B=>{const N=new URLSearchParams(B);return j>1?N.set("page",String(j)):N.delete("page"),N})},k=j=>{c(j?`/category/${encodeURIComponent(j)}/`:"/posts/")},C=Math.max(1,Math.ceil(y.length/W)),F=parseInt(i.get("page")??"1",10),E=Math.min(Math.max(1,Number.isFinite(F)?F:1),C),u=y.slice((E-1)*W,E*W),_=[{name:"홈",path:"/"},{name:e,path:`/category/${encodeURIComponent(e)}`}];return s.jsxs(s.Fragment,{children:[s.jsx($,{title:`${e} 카테고리`,path:`/category/${encodeURIComponent(e)}`,breadcrumbs:_,noindex:w(e)}),s.jsxs("div",{className:"blog",children:[s.jsx(K,{}),s.jsxs("div",{className:"blog__main",children:[s.jsx(vs,{items:_}),s.jsxs("div",{className:"posts-head-row",children:[s.jsxs("header",{className:"feed-head",children:[s.jsx("p",{className:"feed-head__eyebrow",children:"카테고리"}),s.jsx("h1",{children:e}),s.jsx("p",{className:"feed-head__desc",children:l?l.desc:`${o.length}개의 글`})]}),o.length>0&&s.jsxs("div",{className:"post-filter",children:[s.jsxs("div",{className:"fbox fbox--search",children:[s.jsxs("svg",{className:"fbox__icon",viewBox:"0 0 24 24","aria-hidden":"true",children:[s.jsx("circle",{cx:"11",cy:"11",r:"7"}),s.jsx("path",{d:"M21 21l-4.3-4.3"})]}),s.jsx("input",{type:"search",className:"fbox__input",value:d,onChange:j=>D("q",j.target.value,"",{replace:!0}),placeholder:"검색","aria-label":"글 검색"})]}),s.jsxs("div",{className:"fbox",children:[s.jsx("svg",{className:"fbox__icon",viewBox:"0 0 24 24","aria-hidden":"true",children:s.jsx("path",{d:"M3 5h18l-7 8v6l-4 2v-8z"})}),s.jsxs("select",{className:"fbox__select",value:e,onChange:j=>k(j.target.value),"aria-label":"카테고리 필터",children:[s.jsx("option",{value:"",children:"전체 카테고리"}),t.map(j=>s.jsx("option",{value:j,children:j},j))]})]}),s.jsxs("div",{className:"fbox",children:[s.jsx("svg",{className:"fbox__icon",viewBox:"0 0 24 24","aria-hidden":"true",children:s.jsx("path",{d:"M4 6h16M6 12h12M9 18h6"})}),s.jsxs("select",{className:"fbox__select",value:a,onChange:j=>D("sort",j.target.value,"new"),"aria-label":"정렬",children:[s.jsx("option",{value:"new",children:"최신순"}),s.jsx("option",{value:"old",children:"오래된순"})]})]}),s.jsx(bs,{mode:p,onChange:x})]})]}),o.length===0?s.jsxs("p",{className:"muted",style:{paddingTop:"1.5rem"},children:["이 카테고리에는 아직 글이 없습니다. ",s.jsx(g,{to:"/posts",children:"전체 글 보기"})]}):y.length===0?s.jsx("p",{className:"muted",children:"조건에 맞는 글이 없습니다."}):s.jsxs(s.Fragment,{children:[s.jsx(Bs,{page:E,pageCount:C,onChange:P,align:"right"}),p==="card"?s.jsx("div",{className:"post-grid",children:u.map(j=>s.jsx(_s,{post:j},j.slug))}):s.jsx("div",{className:"post-list",children:u.map(j=>s.jsx(Z,{post:j},j.slug))})]}),!w(e)&&s.jsx(As,{posts:ds(e),title:`${e} 월별 글 목록`})]})]})]})}const tr={title:"소개",description:"필요한 프로그램을 직접 만들고, 만드는 과정을 순서대로 적는 블로그입니다."};function hs(r){const e={a:"a",h1:"h1",h2:"h2",p:"p",...f(),...r.components};return s.jsxs(s.Fragment,{children:[s.jsx(e.h1,{id:"소개",children:s.jsx(e.a,{href:"#소개",children:"소개"})}),`

diff --git a/posts/python-pdf-tool-06-window/index.html b/posts/python-pdf-tool-06-window/index.html
@@ -60,7 +60,7 @@
         }
       })();
     </script>
-    <script type="module" crossorigin src="/assets/index-BFxGfD6A.js"></script>
+    <script type="module" crossorigin src="/assets/index-Bz8TyjAO.js"></script>
     <link rel="modulepreload" crossorigin href="/assets/react-BCrAd34n.js">
     <link rel="stylesheet" crossorigin href="/assets/index-0DGBLkgr.css">
   </head>
@@ -150,6 +150,8 @@
 <p>파일을 넣고 빼고 순서를 바꾸는 버튼이 모두 끝에 이 함수를 부르게 되어 있어서, 한 곳만 고치면 됐습니다. 목록이 비면 만들기 버튼을 끄는 것도 이 함수에서 같이 합니다.</p>
 <p><img alt="고친 뒤 폴더를 넣은 화면. 상태줄에 11개를 넣었다고 나옴" src="/uploads/pdftool-06-05.png" loading="lazy"/></p>
 <p>만들기를 누르니 1초가 안 걸려 상태줄에 &#x27;11쪽 · 0.40MB로 저장했습니다 (원본 파일은 그대로)&#x27;가 나왔습니다.</p>
+<p>합친 파일은 스캔 순서 그대로 1쪽부터 11쪽까지 이어집니다. 마지막 쪽이 11쪽입니다.</p>
+<p><img alt="창에서 합친 PDF를 열어 마지막 11쪽을 띄운 화면. 왼쪽에 쪽 목록, 위에 11 / 11" src="/uploads/pdftool-06-06.png" loading="lazy"/></p>
 <h2 id="사진-묶기와-기다리는-동안의-표시"><a href="#사진-묶기와-기다리는-동안의-표시">사진 묶기와 기다리는 동안의 표시</a></h2>
 <p>사진 → PDF를 고르면 용량 제한 칸이 켜집니다. 2편에서 용량 확인은 사진을 PDF로 묶을 때만 하기로 해서, PDF 합치기에서는 칸이 꺼져 있게 했습니다.</p>
 <p>사진은 5편에서 쓴 휴대폰 사진 다섯 장(공개 라이선스 CC0)을 그대로 넣었습니다. 1판에서는 1MB로 정해 만들기를 누르면 결과가 나올 때까지 창에 아무 변화가 없었습니다. 눌렸는지 화면으로는 알 수 없었습니다.</p>
@@ -185,13 +187,16 @@
 <li><strong>안내 보여 주기</strong> (<code>except</code>): <code>pdf_core</code>가 보낸 안내 문장이나 저장 권한 오류를 받으면 상태줄에 빨간 글자로 보여 주고 멈춥니다. 프로그램이 꺼지지 않습니다.</li>
 <li><strong>커서 되돌리기</strong> (<code>finally</code>): 잘 끝나든 중간에 멈추든 마지막에 커서를 원래대로 돌립니다.</li>
 </ul>
-<p><img alt="사진을 묶는 동안 상태줄에 만드는 중입니다가 나온 화면" src="/uploads/pdftool-06-06.png" loading="lazy"/></p>
+<p><img alt="사진을 묶는 동안 상태줄에 만드는 중입니다가 나온 화면" src="/uploads/pdftool-06-07.png" loading="lazy"/></p>
 <p>다 끝나자 &#x27;5쪽 · 0.93MB로 저장했습니다 (원본 파일은 그대로)&#x27;가 나왔습니다. 5편에서 같은 사진을 명령어로 묶은 결과와 같은 0.93MB입니다.</p>
-<p><img alt="사진 5장을 1MB 아래로 묶은 결과" src="/uploads/pdftool-06-07.png" loading="lazy"/></p>
+<p><img alt="사진 5장을 1MB 아래로 묶은 결과" src="/uploads/pdftool-06-08.png" loading="lazy"/></p>
+<p>묶인 PDF는 5쪽이고, 세로로 찍은 책 사진도 옆으로 눕지 않고 바로 선 채로 들어갔습니다.</p>
+<p><img alt="창에서 묶은 사진 PDF의 첫 쪽. 세로로 찍은 책 사진이 바로 서 있고 왼쪽에 다섯 쪽 목록" src="/uploads/pdftool-06-09.png" loading="lazy"/></p>
+<p class="muted">사진: Randal Oulton, 위키미디어 공용 CC0</p>
 <h2 id="잘못-넣었을-때의-안내"><a href="#잘못-넣었을-때의-안내">잘못 넣었을 때의 안내</a></h2>
 <p>2편에서 정한 오류 상황 가운데 용량 칸을 잘못 채운 경우와 암호 걸린 PDF를 넣은 경우를 해 봤습니다.</p>
 <p>용량 칸에 &#x27;1MB&#x27;처럼 단위까지 적으면 숫자로 바꿀 수 없어서, 만들기를 막고 숫자만 넣으라는 안내를 띄웁니다.</p>
-<p><img alt="용량 칸에 1MB를 넣었을 때 안내" src="/uploads/pdftool-06-08.png" loading="lazy"/></p>
+<p><img alt="용량 칸에 1MB를 넣었을 때 안내" src="/uploads/pdftool-06-10.png" loading="lazy"/></p>
 <p>암호 걸린 PDF는 연습용으로 하나 만들어서 시험했습니다. 3편에서 만든 연습2.pdf에 pypdf로 열기 암호를 걸었습니다.</p>
 <pre class="shiki shiki-themes github-light github-dark" style="background-color:#fff;--shiki-dark-bg:#24292e;color:#24292e;--shiki-dark:#e1e4e8" tabindex="0"><code><span class="line"><span style="color:#D73A49;--shiki-dark:#F97583">from</span><span style="color:#24292E;--shiki-dark:#E1E4E8"> pypdf </span><span style="color:#D73A49;--shiki-dark:#F97583">import</span><span style="color:#24292E;--shiki-dark:#E1E4E8"> PdfReader, PdfWriter</span></span>
 <span class="line"></span>
@@ -201,7 +206,7 @@
 <span class="line"><span style="color:#24292E;--shiki-dark:#E1E4E8">writer.write(</span><span style="color:#032F62;--shiki-dark:#9ECBFF">&quot;암호연습.pdf&quot;</span><span style="color:#24292E;--shiki-dark:#E1E4E8">)</span></span>
 <span class="line"><span style="color:#005CC5;--shiki-dark:#79B8FF">print</span><span style="color:#24292E;--shiki-dark:#E1E4E8">(</span><span style="color:#032F62;--shiki-dark:#9ECBFF">&quot;암호연습.pdf 만들었음&quot;</span><span style="color:#24292E;--shiki-dark:#E1E4E8">)</span></span></code></pre>
 <p>연습1, 암호연습, 연습2 순서로 넣고 만들기를 누르니 상태줄에 어느 파일이 문제인지 이름이 나왔고, 결과 파일은 생기지 않았습니다.</p>
-<p><img alt="암호 걸린 파일을 섞었을 때 안내" src="/uploads/pdftool-06-09.png" loading="lazy"/></p>
+<p><img alt="암호 걸린 파일을 섞었을 때 안내" src="/uploads/pdftool-06-11.png" loading="lazy"/></p>
 <p>같은 이름의 결과 파일이 이미 있으면 덮어쓸지 묻는 창과 위로·아래로·빼기 버튼은 코드에만 넣어 두었습니다.</p>
 <p>다음 편에서는 이 창을 더블클릭으로 켜는 방법을 만들고, 2편에서 정한 시험 11가지를 처음부터 해 보겠습니다.</p>
 <p>제가 쓴 환경은 Windows 11, Python 3.14.9, tkinter 9.0, pypdf 6.21.4, Pillow 13.0.0입니다.</p></div><div style="margin-top:3rem;padding:1.4rem;border-radius:var(--radius);border:1px solid var(--border);background:var(--surface)"><strong>PANCO_IT</strong><p class="muted" style="margin-top:0.35rem">필요한 프로그램을 직접 만들고 그 과정을 적습니다</p></div><nav class="post-nav" aria-label="이전 글 다음 글"><a class="post-nav__item" href="/posts/python-pdf-tool-05-photo-size/"><span class="post-nav__label">이전 글</span><span class="post-nav__title">파이썬으로 PDF 합치기 프로그램 만들기 5편 사진 묶기와 용량 줄이기</span></a><span></span></nav></article></div><section><div class="section-title"><h2>관련 글</h2></div><div class="bento"><a class="post-card " href="/posts/python-pdf-tool-05-photo-size/"><span class="tag" style="align-self:flex-start">PDF 도구</span><h3 style="margin-top:0.75rem">파이썬으로 PDF 합치기 프로그램 만들기 5편 사진 묶기와 용량 줄이기</h3><p>휴대폰 사진 5장을 PDF로 묶어 1MB 아래로 줄이고, 화질 단계 오류와 옆으로 누운 쪽을 고쳤습니다.</p><div class="post-card__meta"><time dateTime="2026-11-04T14:58">2026년 11월 4일 14:58</time><span>· <!-- -->파이썬, PDF 합치기, Pillow</span></div></a><a class="post-card " href="/posts/python-pdf-tool-04-folder-merge/"><span class="tag" style="align-self:flex-start">PDF 도구</span><h3 style="margin-top:0.75rem">파이썬으로 PDF 합치기 프로그램 만들기 4편 폴더 속 PDF 번호순 합치기</h3><p>폴더 안 스캔 PDF 11개를 한 번에 합치는 코드를 짜고, 1 다음에 10이 붙던 순서를 숫자 순서로 고쳤습니다.</p><div class="post-card__meta"><time dateTime="2026-11-02T10:38">2026년 11월 2일 10:38</time><span>· <!-- -->파이썬, PDF 합치기, pypdf</span></div></a><a class="post-card " href="/posts/python-pdf-tool-03-install-merge/"><span class="tag" style="align-self:flex-start">PDF 도구</span><h3 style="margin-top:0.75rem">파이썬으로 PDF 합치기 프로그램 만들기 3편 pypdf 설치와 첫 합치기</h3><p>pypdf와 Pillow를 설치하다 나온 pip 캐시 경고의 원인을 확인하고, 연습용 PDF 두 개를 만들어 처음으로 합쳐 봤습니다.</p><div class="post-card__meta"><time dateTime="2026-10-31T14:35">2026년 10월 31일 14:35</time><span>· <!-- -->파이썬, PDF 합치기, pypdf</span></div></a><a class="post-card " href="/posts/python-pdf-tool-02-design/"><span class="tag" style="align-self:flex-start">PDF 도구</span><h3 style="margin-top:0.75rem">파이썬으로 PDF 합치기 프로그램 만들기 2편 흐름도와 화면 설계</h3><p>1편 요구사항을 바탕으로 처리 흐름도, 화면 설계, 모듈 나누기, 예외 처리, 테스트 계획을 정리했습니다.</p><div class="post-card__meta"><time dateTime="2026-10-30T09:59">2026년 10월 30일 09:59</time><span>· <!-- -->파이썬, PDF 합치기, 흐름도</span></div></a><a class="post-card " href="/posts/python-pdf-tool-01-requirements/"><span class="tag" style="align-self:flex-start">PDF 도구</span><h3 style="margin-top:0.75rem">파이썬으로 PDF 합치기 프로그램 만들기 1편 요구사항 정리</h3><p>PDF 합치기 프로그램을 파이썬으로 만들기 전에, 평소 PDF를 다루며 불편했던 점을 바탕으로 요구사항 정의서와 유스케이스 명세, 범위, 일정을 정리했습니다.</p><div class="post-card__meta"><time dateTime="2026-10-29T18:20">2026년 10월 29일 18:20</time><span>· <!-- -->파이썬, PDF 합치기, 요구사항 정의서</span></div></a></div></section></main><footer class="site-footer"><div class="container"><strong>PANCO_IT</strong><p class="muted" style="margin-top:0.4rem">필요한 프로그램을 직접 만들고, 만든 과정을 적습니다.</p><nav class="site-footer__links" aria-label="푸터 메뉴"><a href="/about/">소개</a><a href="/contact/">문의</a><a href="/privacy/">개인정보처리방침</a><a href="/terms/">이용약관</a></nav><p class="muted" style="margin-top:1.25rem;font-size:0.82rem">© 2026 PANCO_IT. All rights reserved.</p></div></footer></div>

diff --git a/404.html b/404.html
@@ -58,7 +58,7 @@
         }
       })();
     </script>
-    <script type="module" crossorigin src="/assets/index-BFxGfD6A.js"></script>
+    <script type="module" crossorigin src="/assets/index-Bz8TyjAO.js"></script>
     <link rel="modulepreload" crossorigin href="/assets/react-BCrAd34n.js">
     <link rel="stylesheet" crossorigin href="/assets/index-0DGBLkgr.css">
   </head>

diff --git a/about/index.html b/about/index.html
@@ -57,7 +57,7 @@
         }
       })();
     </script>
-    <script type="module" crossorigin src="/assets/index-BFxGfD6A.js"></script>
+    <script type="module" crossorigin src="/assets/index-Bz8TyjAO.js"></script>
     <link rel="modulepreload" crossorigin href="/assets/react-BCrAd34n.js">
     <link rel="stylesheet" crossorigin href="/assets/index-0DGBLkgr.css">
   </head>

diff --git a/category/PDF 도구/index.html b/category/PDF 도구/index.html
@@ -58,7 +58,7 @@
         }
       })();
     </script>
-    <script type="module" crossorigin src="/assets/index-BFxGfD6A.js"></script>
+    <script type="module" crossorigin src="/assets/index-Bz8TyjAO.js"></script>
     <link rel="modulepreload" crossorigin href="/assets/react-BCrAd34n.js">
     <link rel="stylesheet" crossorigin href="/assets/index-0DGBLkgr.css">
   </head>

diff --git a/contact/index.html b/contact/index.html
@@ -57,7 +57,7 @@
         }
       })();
     </script>
-    <script type="module" crossorigin src="/assets/index-BFxGfD6A.js"></script>
+    <script type="module" crossorigin src="/assets/index-Bz8TyjAO.js"></script>
     <link rel="modulepreload" crossorigin href="/assets/react-BCrAd34n.js">
     <link rel="stylesheet" crossorigin href="/assets/index-0DGBLkgr.css">
   </head>

diff --git a/index.html b/index.html
@@ -57,7 +57,7 @@
         }
       })();
     </script>
-    <script type="module" crossorigin src="/assets/index-BFxGfD6A.js"></script>
+    <script type="module" crossorigin src="/assets/index-Bz8TyjAO.js"></script>
     <link rel="modulepreload" crossorigin href="/assets/react-BCrAd34n.js">
     <link rel="stylesheet" crossorigin href="/assets/index-0DGBLkgr.css">
   </head>

diff --git a/posts/index.html b/posts/index.html
@@ -57,7 +57,7 @@
         }
       })();
     </script>
-    <script type="module" crossorigin src="/assets/index-BFxGfD6A.js"></script>
+    <script type="module" crossorigin src="/assets/index-Bz8TyjAO.js"></script>
     <link rel="modulepreload" crossorigin href="/assets/react-BCrAd34n.js">
     <link rel="stylesheet" crossorigin href="/assets/index-0DGBLkgr.css">
   </head>

diff --git a/posts/python-pdf-tool-01-requirements/index.html b/posts/python-pdf-tool-01-requirements/index.html
@@ -60,7 +60,7 @@
         }
       })();
     </script>
-    <script type="module" crossorigin src="/assets/index-BFxGfD6A.js"></script>
+    <script type="module" crossorigin src="/assets/index-Bz8TyjAO.js"></script>
     <link rel="modulepreload" crossorigin href="/assets/react-BCrAd34n.js">
     <link rel="stylesheet" crossorigin href="/assets/index-0DGBLkgr.css">
   </head>

diff --git a/posts/python-pdf-tool-02-design/index.html b/posts/python-pdf-tool-02-design/index.html
@@ -60,7 +60,7 @@
         }
       })();
     </script>
-    <script type="module" crossorigin src="/assets/index-BFxGfD6A.js"></script>
+    <script type="module" crossorigin src="/assets/index-Bz8TyjAO.js"></script>
     <link rel="modulepreload" crossorigin href="/assets/react-BCrAd34n.js">
     <link rel="stylesheet" crossorigin href="/assets/index-0DGBLkgr.css">
   </head>

diff --git a/posts/python-pdf-tool-03-install-merge/index.html b/posts/python-pdf-tool-03-install-merge/index.html
@@ -60,7 +60,7 @@
         }
       })();
     </script>
-    <script type="module" crossorigin src="/assets/index-BFxGfD6A.js"></script>
+    <script type="module" crossorigin src="/assets/index-Bz8TyjAO.js"></script>
     <link rel="modulepreload" crossorigin href="/assets/react-BCrAd34n.js">
     <link rel="stylesheet" crossorigin href="/assets/index-0DGBLkgr.css">
   </head>

diff --git a/posts/python-pdf-tool-04-folder-merge/index.html b/posts/python-pdf-tool-04-folder-merge/index.html
@@ -60,7 +60,7 @@
         }
       })();
     </script>
-    <script type="module" crossorigin src="/assets/index-BFxGfD6A.js"></script>
+    <script type="module" crossorigin src="/assets/index-Bz8TyjAO.js"></script>
     <link rel="modulepreload" crossorigin href="/assets/react-BCrAd34n.js">
     <link rel="stylesheet" crossorigin href="/assets/index-0DGBLkgr.css">
   </head>
